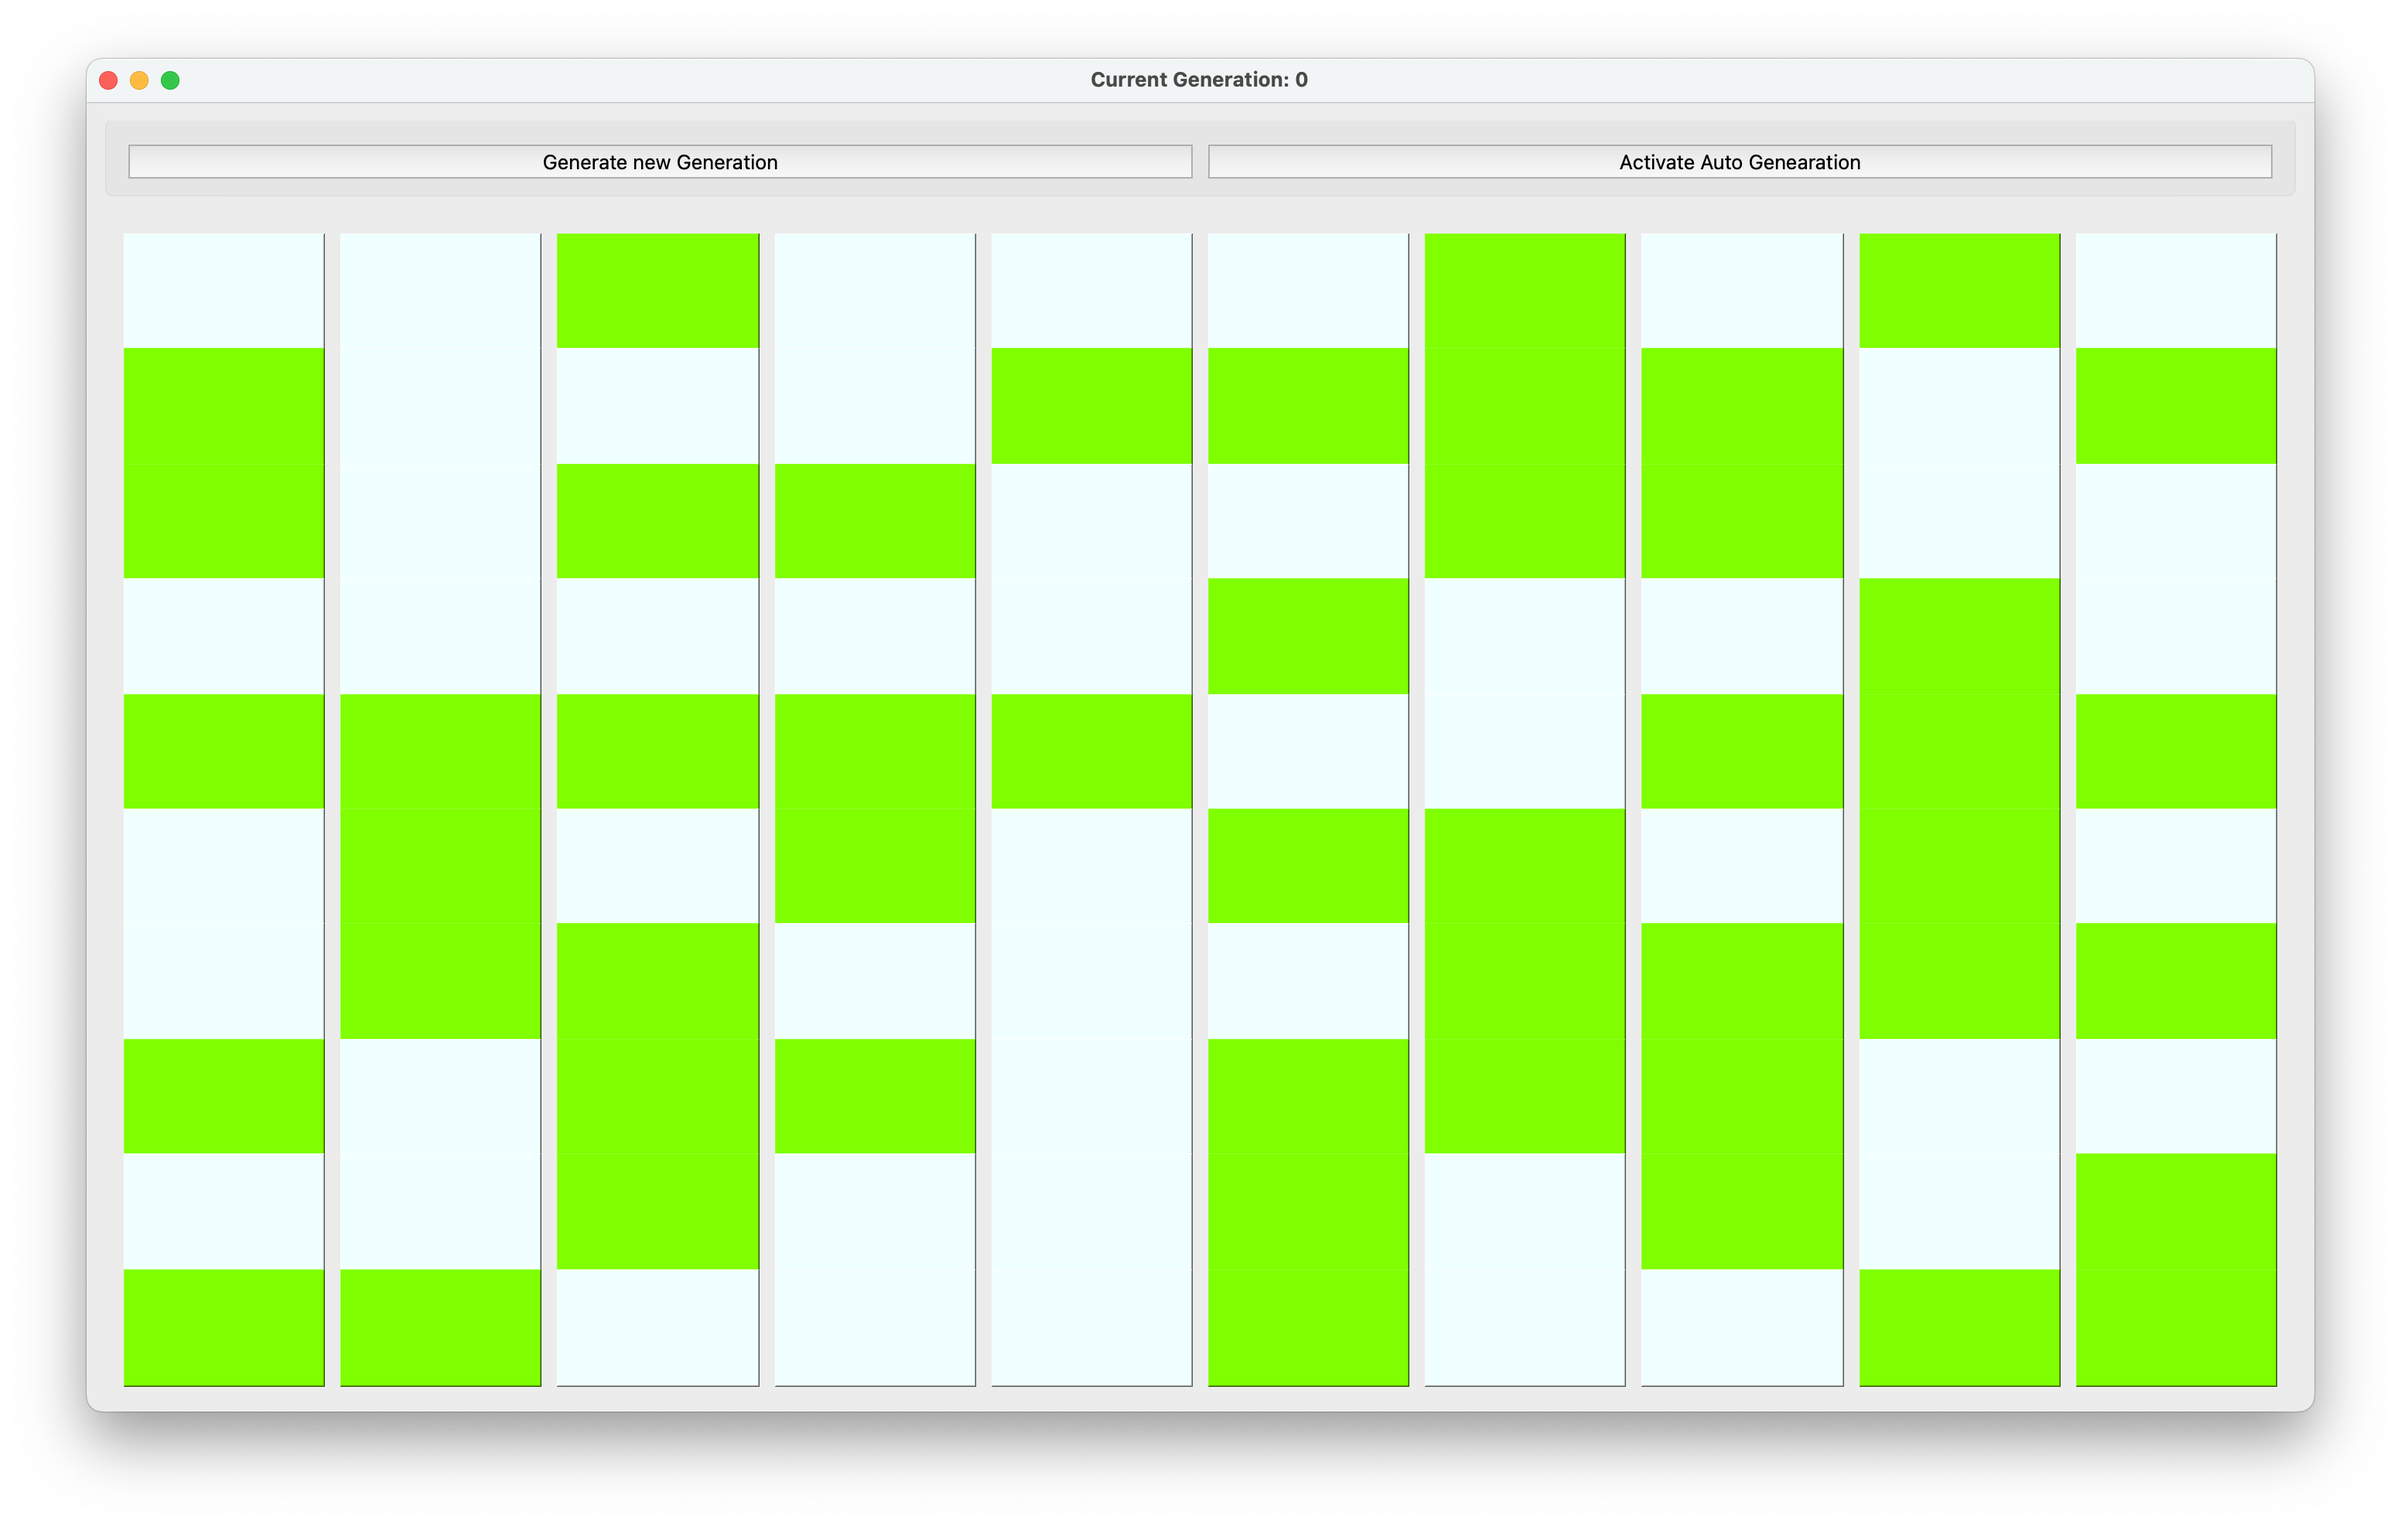
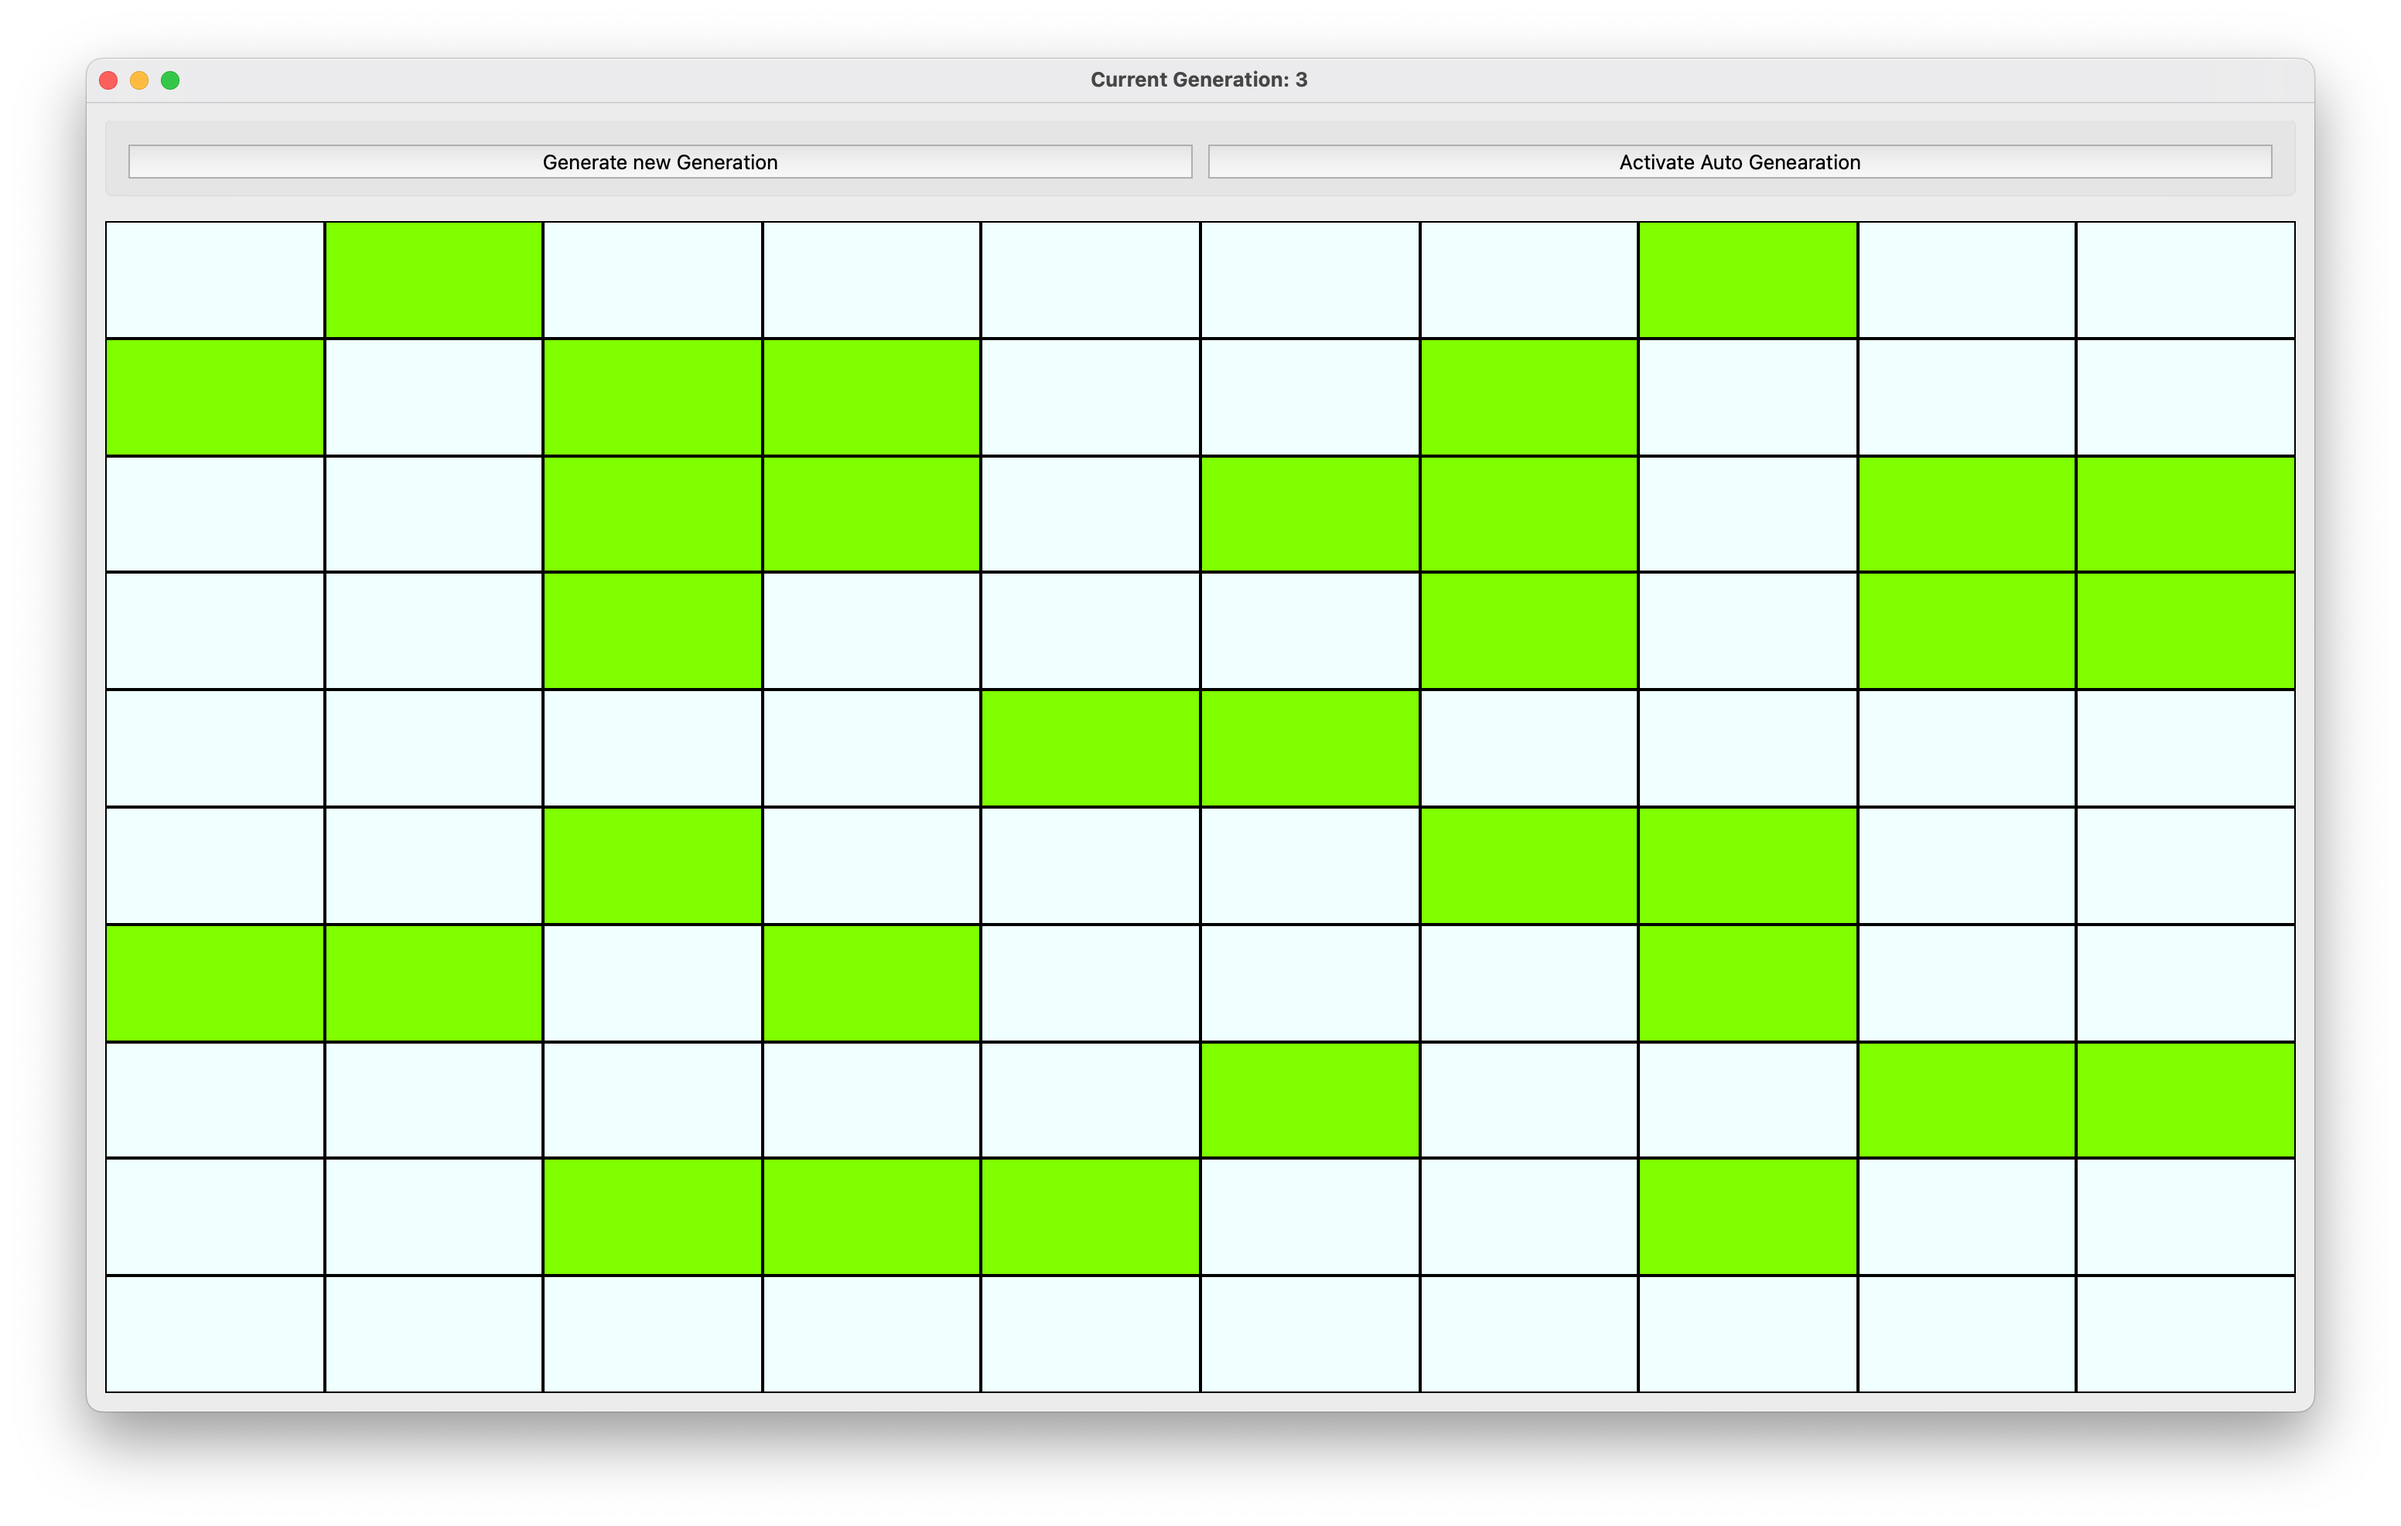
Improvements of the game field look and feel. Updated doc screenshots.

diff --git a/gameoflifeqt/widgets/field/field_widget.py b/gameoflifeqt/widgets/field/field_widget.py
@@ -1,0 +1,81 @@
+"""Exports QtGameFieldWidget."""
+import logging
+
+from PyQt6.QtWidgets import QGridLayout, QLayoutItem, QWidget
+
+from gameoflifeapi.api.game_controller import GameLifeController
+from gameoflifeapi.logic.exceptions import GameIsNotStartedException
+from gameoflifeqt.widgets.field.button import QFieldButtonCell
+
+log: logging.Logger = logging.getLogger(__name__)
+
+
+class QtGameFieldWidget(QWidget):
+    """Define main Field QT Widget for game."""
+
+    def __init__(self, parent, controller: GameLifeController) -> None:
+        """Initialize Field Widget."""
+        QWidget.__init__(self, parent)
+        log.debug('__init__')
+        self._controller: GameLifeController = controller
+        self._init_widget_layout()
+        self._init_field_buttons()
+
+    def _init_widget_layout(self) -> None:
+        self._field_grid_layout: QGridLayout = QGridLayout(self)
+        self._field_grid_layout.setContentsMargins(0, 0, 0, 0)
+        self._field_grid_layout.setSpacing(0)
+        self.setLayout(self._field_grid_layout)
+
+    def _init_field_buttons(self) -> None:
+        self._field_buttons: dict[tuple[int, int], QFieldButtonCell] = {}
+
+    def generate_field_view(self) -> None:
+        """Build view for passed field.
+
+        Initializes GRID of buttons for game field.
+        """
+        if self._controller.game_state is not None:
+            self.clear_field()
+            field = self._controller.game_state.game_field.all_cells.values()
+            for cell in field:
+                btn: QFieldButtonCell = QFieldButtonCell(self, cell)
+
+                def handler(_state, button=btn):
+                    self._on_field_click(button)
+
+                btn.clicked.connect(handler)
+                self._field_grid_layout.addWidget(btn, cell.row, cell.column)
+                self._field_buttons[(cell.row, cell.column)] = btn
+        else:
+            raise GameIsNotStartedException('Game Is Not Started')
+
+    def _on_field_click(self, btn: QFieldButtonCell) -> None:
+        """Process on field cell click event.
+
+        Args:
+            btn (QFieldButtonCell): Current button
+        """
+        log.debug('QtGameFieldWidget._on_field_click')
+        self._controller.trigger_cell(btn.cell.row, btn.cell.column)
+        btn.update_button_state()
+        log.debug('QtGameFieldWidget._on_field_click.exit')
+
+    def update_view_state(self) -> None:
+        """Update current state of the field widget."""
+        log.debug('QtGameFieldWidget.update_view_state')
+        if not self._field_buttons or len(self._field_buttons) == 0:
+            self.generate_field_view()
+        else:
+            for btn in self._field_buttons.values():
+                btn.update_button_state()
+        log.debug('QtGameFieldWidget.update_view_state.exit')
+
+    def clear_field(self) -> None:
+        """Remove all the buttons from the GRID."""
+        while self.layout().count():
+            layout_item: QLayoutItem = self.layout().takeAt(0)
+            if layout_item.widget():
+                layout_item.widget().deleteLater()
+        self._field_buttons.clear()
+        self.layout().update()

diff --git a/gameoflifeqt/widgets/control_widget.py b/gameoflifeqt/widgets/control_widget.py
@@ -11,7 +11,7 @@ from PyQt6.QtWidgets import (QFileDialog, QGridLayout, QGroupBox, QMainWindow,
 from gameoflifeapi.api.game_controller import GameLifeController
 from gameoflifeapi.api.persistance import GamePicklePersistance
 from gameoflifeapi.logic.data.dtos import GameDataDto, NewGameDataDto
-from gameoflifeqt.widgets.field_widget import QtGameFieldWidget
+from gameoflifeqt.widgets.field.field_widget import QtGameFieldWidget
 from gameoflifeqt.widgets.new_game_popup_widget import QtNewGamePopUpWidget
 
 log: logging.Logger = logging.getLogger(__name__)
@@ -33,7 +33,7 @@ class QtGameControlWidget(QMainWindow):
         self._controller: GameLifeController = GameLifeController(
             self._game_persistence,
             self._on_generation_created)
-        self._field_widget = QtGameFieldWidget(self._controller)
+        self._field_widget = QtGameFieldWidget(self, self._controller)
 
         self._timer: QTimer = QTimer(self)
         self._timer.setInterval(300)
@@ -84,12 +84,13 @@ class QtGameControlWidget(QMainWindow):
     def _init_controls(self) -> None:
         """Initialize other controls."""
         log.debug('QtGameControlWidget._init_controls')
-        self._control_widget_group: QGroupBox = QGroupBox()
+        self._control_widget_container = QWidget(self)
+        self._control_widget_group: QGroupBox = QGroupBox(self._control_widget_container)
 
         self._button_next_gen: QPushButton = QPushButton(
-            'Generate new Generation')
+            'Generate new Generation', self._control_widget_container)
         self._button_toggle_autoupdate: QPushButton = QPushButton(
-            TEXT_AUTO_UPDATE_UP)
+            TEXT_AUTO_UPDATE_UP, self._control_widget_container)
 
         self._button_next_gen.setEnabled(False)
         self._button_toggle_autoupdate.setEnabled(False)
@@ -103,7 +104,7 @@ class QtGameControlWidget(QMainWindow):
         self._button_toggle_autoupdate.setSizePolicy(QSizePolicy(
             QSizePolicy.Policy.Expanding, QSizePolicy.Policy.Expanding))
 
-        grid_layout_group: QGridLayout = QGridLayout()
+        grid_layout_group: QGridLayout = QGridLayout(self._control_widget_container)
         grid_layout_group.addWidget(self._button_next_gen, 0, 0)
         grid_layout_group.addWidget(self._button_toggle_autoupdate, 0, 1)
 
@@ -115,11 +116,13 @@ class QtGameControlWidget(QMainWindow):
     def _init_main_layout(self) -> None:
         """Initialize layout with all controls."""
         log.debug('QtGameControlWidget._init_main_layout')
-        main_layout: QVBoxLayout = QVBoxLayout()
+        main_widget: QWidget = QWidget(self)
+        main_layout: QVBoxLayout = QVBoxLayout(main_widget)
+
         main_layout.addWidget(self.menuBar())
         main_layout.addWidget(self._control_widget_group)
         main_layout.addWidget(self._field_widget)
-        main_widget: QWidget = QWidget()
+
         main_widget.setLayout(main_layout)
         self.setCentralWidget(main_widget)
         log.debug('QtGameControlWidget._init_main_layout.exit')

diff --git a/gameoflifeqt/widgets/field/button.py b/gameoflifeqt/widgets/field/button.py
@@ -1,0 +1,57 @@
+"""Module contains QFieldButtonCell class."""
+import logging
+
+from PyQt6.QtWidgets import QPushButton, QSizePolicy, QWidget
+
+from gameoflifeapi.logic.data.cell import Cell
+from gameoflifeapi.logic.data.state import CellState
+
+log: logging.Logger = logging.getLogger(__name__)
+
+_STYLE_BORDER: str = 'border: 1px solid black;'
+_STYLE_GREEN: str = 'background-color: #7FFF00;'
+_STYLE_GRAY: str = 'background-color: #F0FFFF;'
+
+
+class QFieldButtonCell(QPushButton):
+    """Custom button to represent Field Cell.
+
+    Args:
+        QPushButton (_type_): parent class.
+    """
+
+    def __init__(self, parent: QWidget, cell: Cell) -> None:
+        """Initialize button."""
+        QPushButton.__init__(self, parent)
+        self._cell: Cell = cell
+        size_policy: QSizePolicy = QSizePolicy(
+            QSizePolicy.Policy.Expanding,
+            QSizePolicy.Policy.Expanding
+        )
+        size_policy.setHeightForWidth(True)
+        size_policy.setWidthForHeight(True)
+        self.setSizePolicy(size_policy)
+        self.setMinimumSize(10, 10)
+        self.update_button_state()
+
+    def _apply_style(self, color: str):
+        style: str = ' '.join([color, _STYLE_BORDER])
+        self.setStyleSheet(style)
+
+    def _apply_style_gray(self):
+        self._apply_style(_STYLE_GRAY)
+
+    def _apply_style_green(self):
+        self._apply_style(_STYLE_GREEN)
+
+    def update_button_state(self):
+        """Calculate and update button color."""
+        if self._cell.state is CellState.ALIVE:
+            self._apply_style_green()
+        else:
+            self._apply_style_gray()
+
+    @property
+    def cell(self) -> Cell:
+        """Return cell related to the current button."""
+        return self._cell
